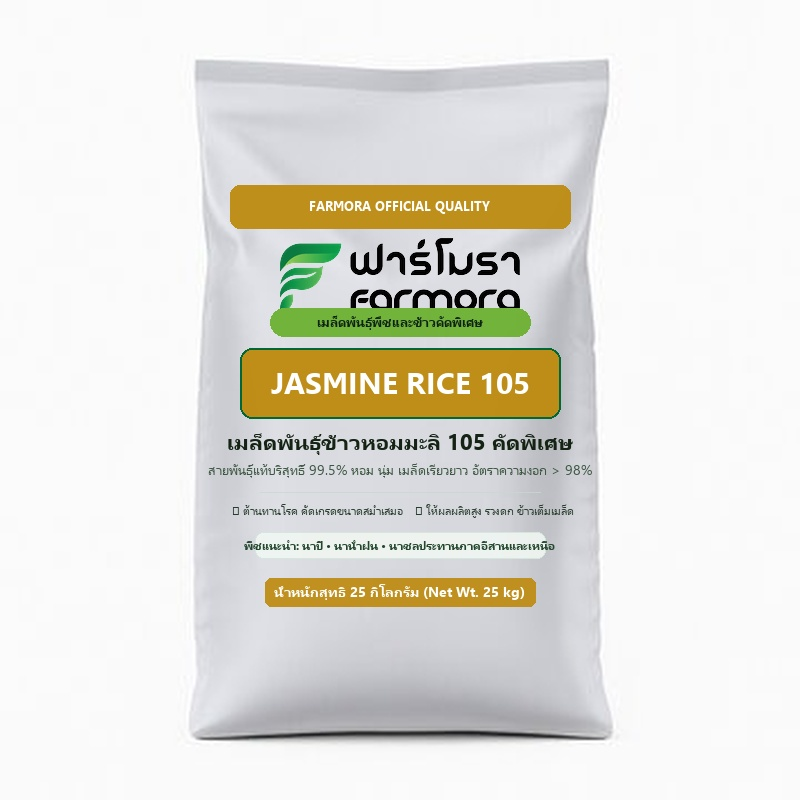
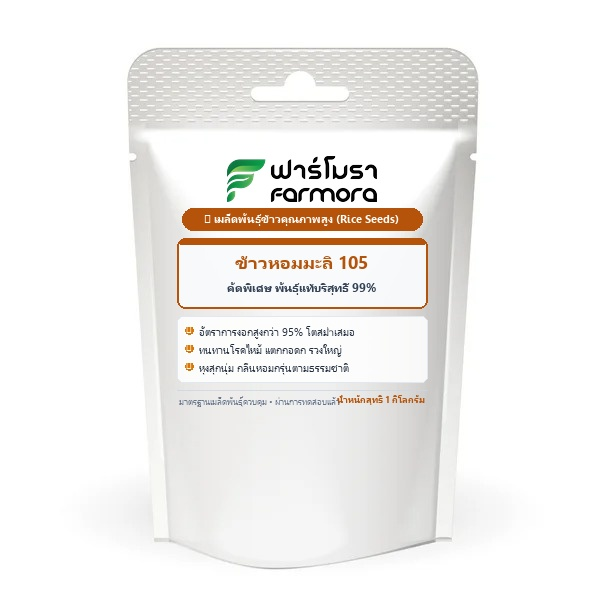
Update vegetable, rice, and grass seed mockups to stand-up foil pouch

diff --git a/frontend/js/products.js b/frontend/js/products.js
@@ -542,9 +542,9 @@
       id: 'p25',
       name: 'เมล็ดพันธุ์ข้าวหอมมะลิ 105 คัดพิเศษ',
       cat: 'seeds',
-      catName: 'เมล็ดพันธุ์',
+      catName: 'เมล็ดพันธุ์ผัก ข้าว หญ้า',
       price: 550,
-      unit: '/กระสอบ 25 กก.',
+      unit: '/ซอง 1 กก.',
       badge: 'star',
       badgeText: '⭐ ยอดนิยม',
       desc: 'เมล็ดพันธุ์ข้าวหอมมะลิ 105 แท้ บริสุทธิ์ 99% อัตราการงอกสูงกว่า 95% หุงนุ่ม หอมกรุ่น',
@@ -563,9 +563,9 @@
       id: 'p26',
       name: 'ชุดรวมเมล็ดพันธุ์ผักสวนครัวพอเพียง (10 ซอง)',
       cat: 'seeds',
-      catName: 'เมล็ดพันธุ์',
+      catName: 'เมล็ดพันธุ์ผัก ข้าว หญ้า',
       price: 180,
-      unit: '/ชุด 10 ชนิด',
+      unit: '/ชุด 10 ซอง',
       badge: 'new',
       badgeText: '✨ สินค้าใหม่',
       desc: 'กะเพรา พริกขี้หนู มะเขือเปราะ โหระพา ผักบุ้งจีน คะน้า แตงกวา ถั่วฝักยาว ผักชี ตะไคร้',
@@ -575,6 +575,27 @@
       image: '../images/mockup-p26.jpg',
       images: [
         '../images/mockup-p26.jpg',
+        '../images/mockup-back-seeds.jpg',
+        '../images/vg 1.jpg',
+        '../images/cert-iso.jpg'
+      ]
+    },
+    {
+      id: 'p29',
+      name: 'เมล็ดพันธุ์หญ้ารูซี่ / หญ้าแพงโกล่า คัดพิเศษ',
+      cat: 'seeds',
+      catName: 'เมล็ดพันธุ์ผัก ข้าว หญ้า',
+      price: 250,
+      unit: '/ซอง 1 กก.',
+      badge: 'star',
+      badgeText: '⭐ ยอดนิยม',
+      desc: 'เมล็ดพันธุ์หญ้าเลี้ยงสัตว์และจัดสวน แตกกอแน่น โตไว โปรตีนสูง สัตว์ชอบกิน ทนแล้ง',
+      fullDesc: 'เมล็ดพันธุ์หญ้ารูซี่และหญ้าแพงโกล่าคัดพิเศษ อัตราการงอกสูงกว่า 90% ทนทานต่อการเหยียบย่ำและการแทะเล็ม เหมาะสำหรับทำแปลงหญ้าสด หญ้าหมัก หรือหญ้าแห้งสำหรับโคเนื้อ โคนม และสัตว์เคี้ยวเอื้องทุกชนิด',
+      crops: ['rice', 'corn'],
+      cropNames: ['ข้าวโพด', 'พืชอาหารสัตว์'],
+      image: '../images/mockup-seed-grass.jpg',
+      images: [
+        '../images/mockup-seed-grass.jpg',
         '../images/mockup-back-seeds.jpg',
         '../images/vg 1.jpg',
         '../images/cert-iso.jpg'
@@ -633,9 +654,20 @@
         if (Array.isArray(parsed) && parsed.length > 0) {
           // ซิงค์อัปเดตรูป Mockup ให้กับสินค้าในเครื่องเดิมที่ยังใช้ภาพแบบเก่า
           let needsSave = false;
+          // ซิงค์สินค้าหมวดเมล็ดพันธุ์และรูปภาพ Mockup ซองใหม่
+          if (!parsed.some(p => p.id === 'p29')) {
+            const p29 = DEFAULT_PRODUCTS_DATA.find(d => d.id === 'p29');
+            if (p29) { parsed.push(p29); needsSave = true; }
+          }
           parsed = parsed.map(p => {
             const def = DEFAULT_PRODUCTS_DATA.find(d => d.id === p.id);
             if (def) {
+              if (p.cat === 'seeds' || p.id === 'p25' || p.id === 'p26' || p.id === 'p29') {
+                p.catName = 'เมล็ดพันธุ์ผัก ข้าว หญ้า';
+                p.image = def.image;
+                p.images = def.images;
+                needsSave = true;
+              }
               if (!p.image || p.image.includes('product-fertilizer') || p.image.includes('product-soil') || p.image.includes('product-hormone') || p.image.includes('product-pesticide') || p.image.includes('picture 1')) {
                 p.image = def.image;
                 needsSave = true;
@@ -778,7 +810,7 @@
       herbicide: 'สารกำจัดวัชพืช',
       hormone: 'ฮอร์โมนพืช',
       soil: 'สารปรับปรุงดิน',
-      seeds: 'เมล็ดพันธุ์',
+      seeds: 'เมล็ดพันธุ์ผัก ข้าว หญ้า',
       feed: 'อาหารสัตว์'
     };
 
@@ -975,7 +1007,7 @@
       feed:       '../images/vg 4.jpg'
     };
 
-    const frontImg = (item.id && /^p\d+$/.test(item.id)) ? `../images/mockup-${item.id}.jpg` : (item.image || '../images/mockup-p1.jpg');
+    const frontImg = (item.id && /^p\d+$/.test(item.id)) ? `../images/mockup-${item.id}.jpg` : (cat === 'seeds' ? '../images/mockup-seed-blank.jpg' : (item.image || '../images/mockup-p1.jpg'));
     const backImg = `../images/mockup-back-${cat}.jpg`;
     const contentImg = catContentMap[cat] || '../images/product-fertilizer.jpg';
     const certImg = '../images/cert-iso.jpg';

diff --git a/js/products.js b/js/products.js
@@ -542,9 +542,9 @@
       id: 'p25',
       name: 'เมล็ดพันธุ์ข้าวหอมมะลิ 105 คัดพิเศษ',
       cat: 'seeds',
-      catName: 'เมล็ดพันธุ์',
+      catName: 'เมล็ดพันธุ์ผัก ข้าว หญ้า',
       price: 550,
-      unit: '/กระสอบ 25 กก.',
+      unit: '/ซอง 1 กก.',
       badge: 'star',
       badgeText: '⭐ ยอดนิยม',
       desc: 'เมล็ดพันธุ์ข้าวหอมมะลิ 105 แท้ บริสุทธิ์ 99% อัตราการงอกสูงกว่า 95% หุงนุ่ม หอมกรุ่น',
@@ -563,9 +563,9 @@
       id: 'p26',
       name: 'ชุดรวมเมล็ดพันธุ์ผักสวนครัวพอเพียง (10 ซอง)',
       cat: 'seeds',
-      catName: 'เมล็ดพันธุ์',
+      catName: 'เมล็ดพันธุ์ผัก ข้าว หญ้า',
       price: 180,
-      unit: '/ชุด 10 ชนิด',
+      unit: '/ชุด 10 ซอง',
       badge: 'new',
       badgeText: '✨ สินค้าใหม่',
       desc: 'กะเพรา พริกขี้หนู มะเขือเปราะ โหระพา ผักบุ้งจีน คะน้า แตงกวา ถั่วฝักยาว ผักชี ตะไคร้',
@@ -575,6 +575,27 @@
       image: '../images/mockup-p26.jpg',
       images: [
         '../images/mockup-p26.jpg',
+        '../images/mockup-back-seeds.jpg',
+        '../images/vg 1.jpg',
+        '../images/cert-iso.jpg'
+      ]
+    },
+    {
+      id: 'p29',
+      name: 'เมล็ดพันธุ์หญ้ารูซี่ / หญ้าแพงโกล่า คัดพิเศษ',
+      cat: 'seeds',
+      catName: 'เมล็ดพันธุ์ผัก ข้าว หญ้า',
+      price: 250,
+      unit: '/ซอง 1 กก.',
+      badge: 'star',
+      badgeText: '⭐ ยอดนิยม',
+      desc: 'เมล็ดพันธุ์หญ้าเลี้ยงสัตว์และจัดสวน แตกกอแน่น โตไว โปรตีนสูง สัตว์ชอบกิน ทนแล้ง',
+      fullDesc: 'เมล็ดพันธุ์หญ้ารูซี่และหญ้าแพงโกล่าคัดพิเศษ อัตราการงอกสูงกว่า 90% ทนทานต่อการเหยียบย่ำและการแทะเล็ม เหมาะสำหรับทำแปลงหญ้าสด หญ้าหมัก หรือหญ้าแห้งสำหรับโคเนื้อ โคนม และสัตว์เคี้ยวเอื้องทุกชนิด',
+      crops: ['rice', 'corn'],
+      cropNames: ['ข้าวโพด', 'พืชอาหารสัตว์'],
+      image: '../images/mockup-seed-grass.jpg',
+      images: [
+        '../images/mockup-seed-grass.jpg',
         '../images/mockup-back-seeds.jpg',
         '../images/vg 1.jpg',
         '../images/cert-iso.jpg'
@@ -633,9 +654,20 @@
         if (Array.isArray(parsed) && parsed.length > 0) {
           // ซิงค์อัปเดตรูป Mockup ให้กับสินค้าในเครื่องเดิมที่ยังใช้ภาพแบบเก่า
           let needsSave = false;
+          // ซิงค์สินค้าหมวดเมล็ดพันธุ์และรูปภาพ Mockup ซองใหม่
+          if (!parsed.some(p => p.id === 'p29')) {
+            const p29 = DEFAULT_PRODUCTS_DATA.find(d => d.id === 'p29');
+            if (p29) { parsed.push(p29); needsSave = true; }
+          }
           parsed = parsed.map(p => {
             const def = DEFAULT_PRODUCTS_DATA.find(d => d.id === p.id);
             if (def) {
+              if (p.cat === 'seeds' || p.id === 'p25' || p.id === 'p26' || p.id === 'p29') {
+                p.catName = 'เมล็ดพันธุ์ผัก ข้าว หญ้า';
+                p.image = def.image;
+                p.images = def.images;
+                needsSave = true;
+              }
               if (!p.image || p.image.includes('product-fertilizer') || p.image.includes('product-soil') || p.image.includes('product-hormone') || p.image.includes('product-pesticide') || p.image.includes('picture 1')) {
                 p.image = def.image;
                 needsSave = true;
@@ -778,7 +810,7 @@
       herbicide: 'สารกำจัดวัชพืช',
       hormone: 'ฮอร์โมนพืช',
       soil: 'สารปรับปรุงดิน',
-      seeds: 'เมล็ดพันธุ์',
+      seeds: 'เมล็ดพันธุ์ผัก ข้าว หญ้า',
       feed: 'อาหารสัตว์'
     };
 
@@ -975,7 +1007,7 @@
       feed:       '../images/vg 4.jpg'
     };
 
-    const frontImg = (item.id && /^p\d+$/.test(item.id)) ? `../images/mockup-${item.id}.jpg` : (item.image || '../images/mockup-p1.jpg');
+    const frontImg = (item.id && /^p\d+$/.test(item.id)) ? `../images/mockup-${item.id}.jpg` : (cat === 'seeds' ? '../images/mockup-seed-blank.jpg' : (item.image || '../images/mockup-p1.jpg'));
     const backImg = `../images/mockup-back-${cat}.jpg`;
     const contentImg = catContentMap[cat] || '../images/product-fertilizer.jpg';
     const certImg = '../images/cert-iso.jpg';

diff --git a/backend/index.html b/backend/index.html
@@ -112,6 +112,7 @@
         </a>
       </li>
 
+      <!-- 🛒 ซ่อนเมนูคำสั่งซื้อชั่วคราวตามคำขอ
       <li class="sidebar-heading">คำสั่งซื้อและการขาย</li>
       <li>
         <a class="sidebar-link" data-tab="orders">
@@ -120,6 +121,7 @@
           <span class="sidebar-badge" id="badgeOrdersCount" style="background:#ff6f22;">0</span>
         </a>
       </li>
+      -->
 
       <li class="sidebar-heading">ระบบและโครงสร้าง</li>
       <li>
@@ -237,6 +239,7 @@
               <span class="value" id="statMedia">0</span>
             </div>
           </div>
+          <!-- 🛒 ซ่อนสถิติคำสั่งซื้อชั่วคราว
           <div class="stat-card">
             <div class="stat-icon-wrap green" style="background:#e6f9ed; color:#00a64c;"><i class="fa-solid fa-cart-shopping"></i></div>
             <div class="stat-info">
@@ -251,6 +254,7 @@
               <span class="value" id="statRevenue" style="font-size: 24px;">฿0</span>
             </div>
           </div>
+          -->
         </div>
 
         <!-- Quick Actions Card -->
@@ -259,9 +263,11 @@
             <h2 class="card-title"><i class="fa-solid fa-bolt"></i> ทางลัดด่วน (Quick Actions)</h2>
           </div>
           <div class="card-body" style="display: flex; gap: 12px; flex-wrap: wrap;">
+            <!-- 🛒 ซ่อนปุ่มทางลัดคำสั่งซื้อชั่วคราว
             <button class="btn btn-primary" onclick="AdminApp.switchTab('orders')" style="background: linear-gradient(135deg, #ff6f22, #e65100);">
               <i class="fa-solid fa-cart-shopping"></i> จัดการคำสั่งซื้อ (<span id="quickPendingOrders">0</span> รอส่ง)
             </button>
+            -->
             <button class="btn btn-primary" onclick="AdminApp.openSlideModal()">
               <i class="fa-solid fa-plus"></i> เพิ่มสไลด์ใหม่
             </button>
@@ -812,7 +818,7 @@
                   <option value="herbicide">สารกำจัดวัชพืช</option>
                   <option value="hormone">ฮอร์โมนพืช</option>
                   <option value="soil">สารปรับปรุงดิน</option>
-                  <option value="seeds">เมล็ดพันธุ์ผักและข้าว</option>
+                  <option value="seeds">เมล็ดพันธุ์ผัก ข้าว หญ้า</option>
                   <option value="feed">อาหารสัตว์</option>
                 </select>
               </div>
@@ -1980,7 +1986,7 @@
                 <option value="herbicide">สารกำจัดวัชพืช</option>
                 <option value="hormone">ฮอร์โมนพืช</option>
                 <option value="soil">สารปรับปรุงดิน</option>
-                <option value="seeds">เมล็ดพันธุ์ผักและข้าว</option>
+                <option value="seeds">เมล็ดพันธุ์ผัก ข้าว หญ้า</option>
                 <option value="feed">อาหารสัตว์</option>
               </select>
             </div>

diff --git a/about.html b/about.html
@@ -60,7 +60,7 @@
             <li><a href="products.html">สินค้าทั้งหมด</a></li>
             <li><a href="products.html?cat=organic">ปุ๋ยอินทรีย์</a></li>
             <li><a href="products.html?cat=soil">สารปรับปรุงดิน</a></li>
-            <li><a href="products.html?cat=seeds">เมล็ดพันธุ์ผักและข้าว</a></li>
+            <li><a href="products.html?cat=seeds">เมล็ดพันธุ์ผัก ข้าว หญ้า</a></li>
             <li><a href="products.html?cat=feed">อาหารสัตว์</a></li>
           </ul>
         </li>
@@ -263,7 +263,7 @@
           <div class="timeline-card">
             <span class="timeline-year">พ.ศ. 2548</span>
             <h4>ขยายศูนย์กระจายสินค้าและเมล็ดพันธุ์</h4>
-            <p>ขยายสายการผลิตเมล็ดพันธุ์ผักและข้าว พร้อมสร้างระบบคลังสินค้ามาตรฐานเพื่อรองรับการจัดส่งครอบคลุมภาคตะวันออกเฉียงเหนือและทั่วประเทศ</p>
+            <p>ขยายสายการผลิตเมล็ดพันธุ์ผัก ข้าว หญ้า พร้อมสร้างระบบคลังสินค้ามาตรฐานเพื่อรองรับการจัดส่งครอบคลุมภาคตะวันออกเฉียงเหนือและทั่วประเทศ</p>
           </div>
         </div>
 

diff --git a/frontend/html/about.html b/frontend/html/about.html
@@ -60,7 +60,7 @@
             <li><a href="products.html">สินค้าทั้งหมด</a></li>
             <li><a href="products.html?cat=organic">ปุ๋ยอินทรีย์</a></li>
             <li><a href="products.html?cat=soil">สารปรับปรุงดิน</a></li>
-            <li><a href="products.html?cat=seeds">เมล็ดพันธุ์ผักและข้าว</a></li>
+            <li><a href="products.html?cat=seeds">เมล็ดพันธุ์ผัก ข้าว หญ้า</a></li>
             <li><a href="products.html?cat=feed">อาหารสัตว์</a></li>
           </ul>
         </li>
@@ -263,7 +263,7 @@
           <div class="timeline-card">
             <span class="timeline-year">พ.ศ. 2548</span>
             <h4>ขยายศูนย์กระจายสินค้าและเมล็ดพันธุ์</h4>
-            <p>ขยายสายการผลิตเมล็ดพันธุ์ผักและข้าว พร้อมสร้างระบบคลังสินค้ามาตรฐานเพื่อรองรับการจัดส่งครอบคลุมภาคตะวันออกเฉียงเหนือและทั่วประเทศ</p>
+            <p>ขยายสายการผลิตเมล็ดพันธุ์ผัก ข้าว หญ้า พร้อมสร้างระบบคลังสินค้ามาตรฐานเพื่อรองรับการจัดส่งครอบคลุมภาคตะวันออกเฉียงเหนือและทั่วประเทศ</p>
           </div>
         </div>
 

diff --git a/backend/js/data-store.js b/backend/js/data-store.js
@@ -590,7 +590,7 @@
       id: 'p8',
       name: 'เมล็ดพันธุ์แตงกวาญี่ปุ่น F1 พรีเมียม',
       cat: 'seeds',
-      catName: 'เมล็ดพันธุ์ผักและข้าว',
+      catName: 'เมล็ดพันธุ์ผัก ข้าว หญ้า',
       price: 180,
       unit: '/ซอง 100 เมล็ด',
       badge: 'new',
@@ -598,9 +598,9 @@
       desc: 'เมล็ดพันธุ์แตงกวาญี่ปุ่นลูกดก ทนโรคราแป้ง ผลสีเขียวเข้ม รสชาติกรอบหวาน ไม่ขม ตลาดต้องการสูง',
       crops: ['vegetable'],
       cropNames: ['ผักทั่วไป'],
-      image: '../frontend/images/mockup-p26.jpg',
+      image: '../frontend/images/mockup-p8.jpg',
       images: [
-        '../frontend/images/mockup-p26.jpg',
+        '../frontend/images/mockup-p8.jpg',
         '../frontend/images/mockup-back-seeds.jpg',
         '../frontend/images/vg 1.jpg',
         '../frontend/images/cert-iso.jpg'

diff --git a/frontend/html/products.html b/frontend/html/products.html
@@ -59,7 +59,7 @@
             <li><a href="products.html">สินค้าทั้งหมด</a></li>
             <li><a href="products.html?cat=organic">ปุ๋ยอินทรีย์</a></li>
             <li><a href="products.html?cat=soil">สารปรับปรุงดิน</a></li>
-            <li><a href="products.html?cat=seeds">เมล็ดพันธุ์ผักและข้าว</a></li>
+            <li><a href="products.html?cat=seeds">เมล็ดพันธุ์ผัก ข้าว หญ้า</a></li>
             <li><a href="products.html?cat=feed">อาหารสัตว์</a></li>
           </ul>
         </li>
@@ -155,7 +155,7 @@
               </li>
               <li>
                 <button class="pcat-btn" data-cat="seeds">
-                  <span>🌽 เมล็ดพันธุ์ผักและข้าว</span>
+                  <span>🌽 เมล็ดพันธุ์ผัก ข้าว หญ้า</span>
                   <span class="pcat-count">2</span>
                 </button>
               </li>

diff --git a/products.html b/products.html
@@ -59,7 +59,7 @@
             <li><a href="products.html">สินค้าทั้งหมด</a></li>
             <li><a href="products.html?cat=organic">ปุ๋ยอินทรีย์</a></li>
             <li><a href="products.html?cat=soil">สารปรับปรุงดิน</a></li>
-            <li><a href="products.html?cat=seeds">เมล็ดพันธุ์ผักและข้าว</a></li>
+            <li><a href="products.html?cat=seeds">เมล็ดพันธุ์ผัก ข้าว หญ้า</a></li>
             <li><a href="products.html?cat=feed">อาหารสัตว์</a></li>
           </ul>
         </li>
@@ -155,7 +155,7 @@
               </li>
               <li>
                 <button class="pcat-btn" data-cat="seeds">
-                  <span>🌽 เมล็ดพันธุ์ผักและข้าว</span>
+                  <span>🌽 เมล็ดพันธุ์ผัก ข้าว หญ้า</span>
                   <span class="pcat-count">2</span>
                 </button>
               </li>

diff --git a/backend/js/admin.js b/backend/js/admin.js
@@ -1226,7 +1226,10 @@
       feed:       '../frontend/images/vg 4.jpg'
     };
 
-    const frontImg = (id && /^p\d+$/.test(id)) ? `../frontend/images/mockup-${id}.jpg` : (mainImg || '../frontend/images/mockup-p1.jpg');
+    let frontImg = (id && /^p\d+$/.test(id)) ? `../frontend/images/mockup-${id}.jpg` : (mainImg || '../frontend/images/mockup-p1.jpg');
+    if (cat === 'seeds' && (!id || !/^p(25|26|8|29)$/.test(id))) {
+      frontImg = '../frontend/images/mockup-seed-blank.jpg';
+    }
     const backImg = `../frontend/images/mockup-back-${cat}.jpg`;
     const contentImg = catContentMap[cat] || '../frontend/images/product-fertilizer.jpg';
     const certImg = '../frontend/images/cert-iso.jpg';

diff --git a/frontend/html/index.html b/frontend/html/index.html
@@ -67,7 +67,7 @@
             <li><a href="products.html">สินค้าทั้งหมด</a></li>
             <li><a href="products.html?cat=organic">ปุ๋ยอินทรีย์</a></li>
             <li><a href="products.html?cat=soil">สารปรับปรุงดิน</a></li>
-            <li><a href="products.html?cat=seeds">เมล็ดพันธุ์ผักและข้าว</a></li>
+            <li><a href="products.html?cat=seeds">เมล็ดพันธุ์ผัก ข้าว หญ้า</a></li>
             <li><a href="products.html?cat=feed">อาหารสัตว์</a></li>
           </ul>
         </li>

diff --git a/frontend/html/news.html b/frontend/html/news.html
@@ -60,7 +60,7 @@
             <li><a href="products.html">สินค้าทั้งหมด</a></li>
             <li><a href="products.html?cat=organic">ปุ๋ยอินทรีย์</a></li>
             <li><a href="products.html?cat=soil">สารปรับปรุงดิน</a></li>
-            <li><a href="products.html?cat=seeds">เมล็ดพันธุ์ผักและข้าว</a></li>
+            <li><a href="products.html?cat=seeds">เมล็ดพันธุ์ผัก ข้าว หญ้า</a></li>
             <li><a href="products.html?cat=feed">อาหารสัตว์</a></li>
           </ul>
         </li>

diff --git a/index.html b/index.html
@@ -67,7 +67,7 @@
             <li><a href="products.html">สินค้าทั้งหมด</a></li>
             <li><a href="products.html?cat=organic">ปุ๋ยอินทรีย์</a></li>
             <li><a href="products.html?cat=soil">สารปรับปรุงดิน</a></li>
-            <li><a href="products.html?cat=seeds">เมล็ดพันธุ์ผักและข้าว</a></li>
+            <li><a href="products.html?cat=seeds">เมล็ดพันธุ์ผัก ข้าว หญ้า</a></li>
             <li><a href="products.html?cat=feed">อาหารสัตว์</a></li>
           </ul>
         </li>
